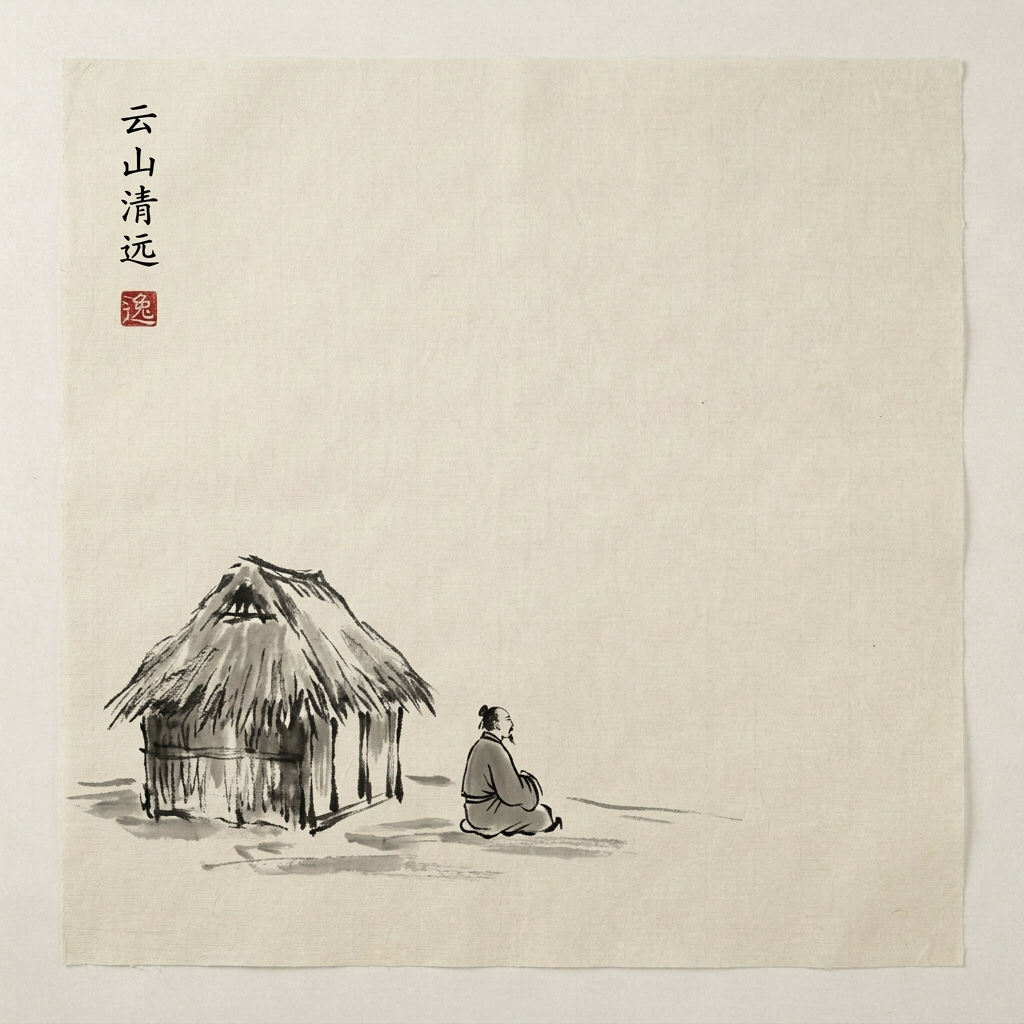
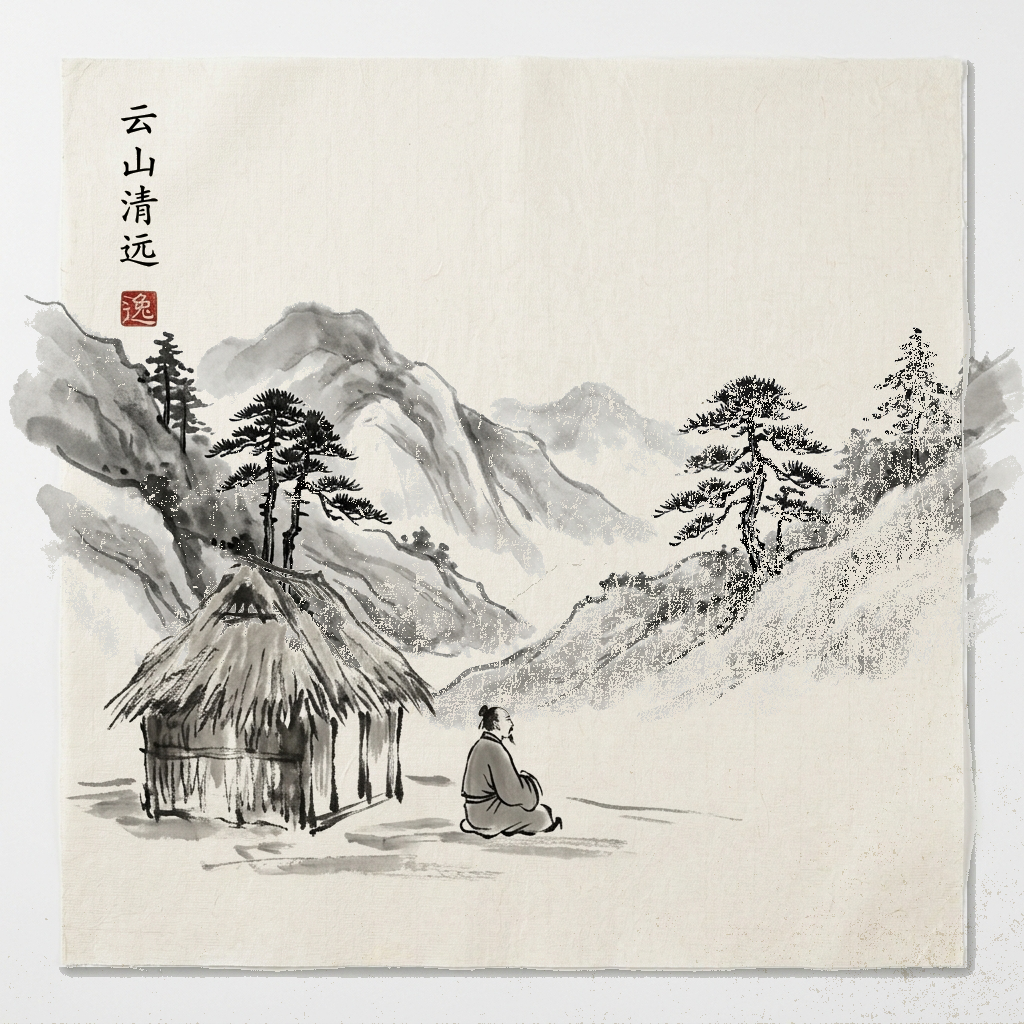
fix(blend): threshold 215 for off-white paper backgrounds in layered output
Gemini generates layers on paper-textured backgrounds (RGB ~220-235),
not pure white. Previous threshold 230 missed these, causing hut/calligraphy
layers to cover mountains. Lowered to 215 — all 5 layers now composite correctly.

diff --git a/src/vulca/layers/blend.py b/src/vulca/layers/blend.py
@@ -102,18 +102,18 @@ def blend_layers(
         # This handles LAYERED pipeline output where each layer has white bg.
         if layer.info.content_type != "background":
             arr = np.array(layer_img)
-            if arr[:, :, 3].min() > 250:  # fully opaque = was RGB
-                # Check if layer has actual pure-white regions to make transparent.
-                # Layers with faint content (e.g. distant mountains in light ink)
-                # may have NO pure-white pixels — skip alpha processing for those.
-                pure_white = (arr[:, :, 0] > 252) & (arr[:, :, 1] > 252) & (arr[:, :, 2] > 252)
-                white_ratio = pure_white.sum() / pure_white.size
-                if white_ratio > 0.05:  # At least 5% pure-white = has background to remove
-                    white = (arr[:, :, 0] > 240) & (arr[:, :, 1] > 240) & (arr[:, :, 2] > 240)
-                    arr[:, :, 3][white] = 0
+            if arr[:, :, 3].min() > 250:  # fully opaque = was RGB source
+                # LAYERED pipeline generates each layer on white/off-white bg.
+                # Detect "light background" pixels (>230 in all channels) and
+                # make them transparent. Content pixels (<230 in any channel)
+                # are preserved.
+                light_bg = (arr[:, :, 0] > 215) & (arr[:, :, 1] > 215) & (arr[:, :, 2] > 215)
+                light_ratio = light_bg.sum() / light_bg.size
+                # Only apply if layer has significant light area (>10%)
+                # This preserves layers that are entirely dark content
+                if light_ratio > 0.10:
+                    arr[:, :, 3][light_bg] = 0
                     layer_img = Image.fromarray(arr, "RGBA")
-                # else: layer is entirely faint content (like distant mountains)
-                # — keep fully opaque, blend will show through via multiply/normal
 
         blend_fn = _BLEND_FNS.get(layer.info.blend_mode, blend_normal)
         canvas = blend_fn(canvas, layer_img)
